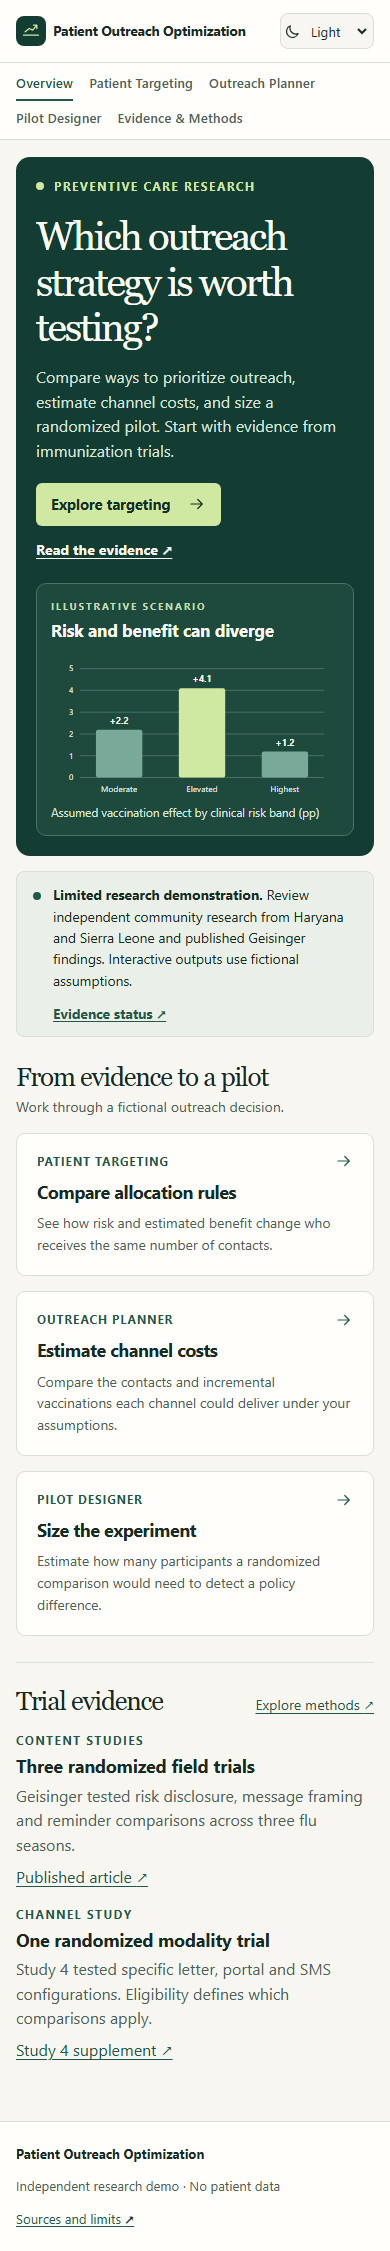
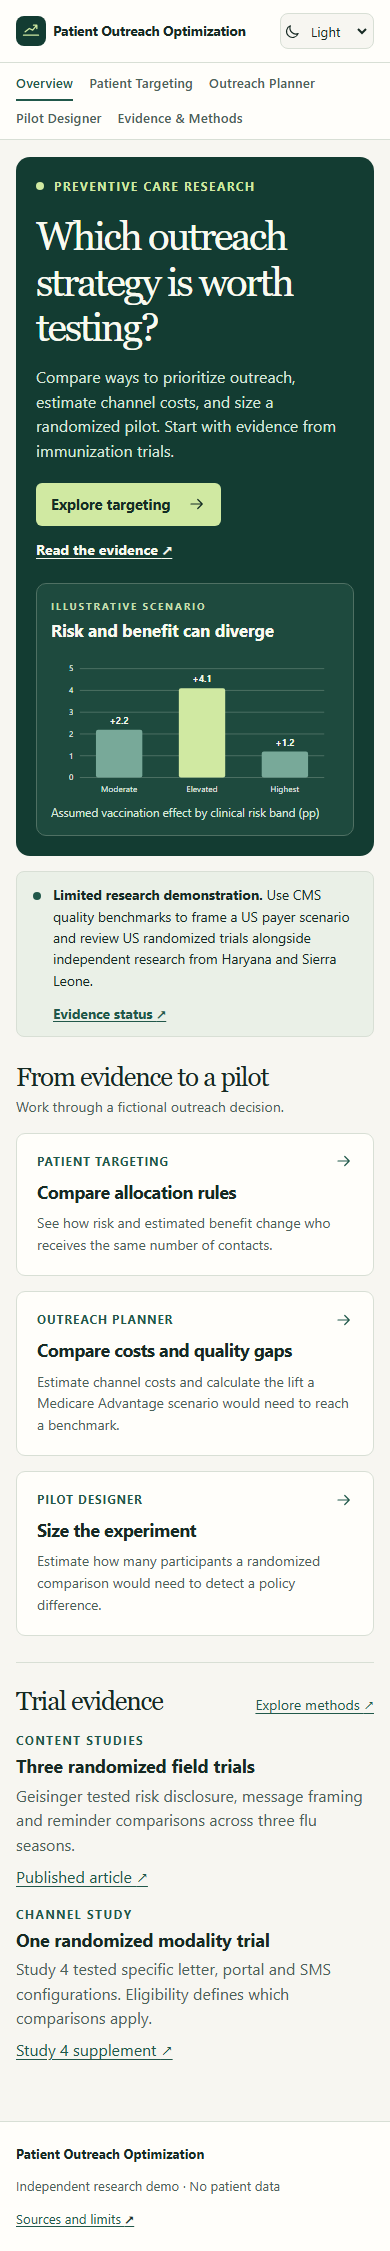
Record verified US demo deployment and final handoff

Changed region(s): [[0.0923, 0.5908, 0.7692, 0.653], [0.1231, 0.3732, 0.8615, 0.4354], [0.8308, 0.6219, 0.8615, 0.653]]

diff --git a/progress.md b/progress.md
@@ -14,7 +14,7 @@
 ## v1.0.0 continuation checkpoint
 
 - Preserved the owner’s [continuation brief](CONTINUATION_V1.md) and recorded the approved design in [docs/UI_DESIGN.md](docs/UI_DESIGN.md). Nine production references match the local build byte for byte. All nine browser tests passed locally and live with exact comparison enabled for Chromium. The five-file local build matched the release ledger and the four served assets and security headers were verified again over HTTPS.
-- Rechecked all 20 Geisinger OSF metadata entries and located the authors’ scripts and message supplement. The reuse basis is still open. See the [unsent permission request](docs/LICENSING.md) with the verified corresponding-author contact.
+- Rechecked all 20 Geisinger OSF metadata entries and located the authors’ scripts and message supplement. See the [permission record](docs/LICENSING.md) for the correspondence status.
 - Verified the openly licensed Haryana immunization package against the deposit checksum and inspected its CSV headers and counts. The prepared analysis file has 28,903 village-month records. The [feasibility review](research/DATASET_FEASIBILITY.md) records the separate cluster-level scope and locks the first independent check against published Figure 4.
 - The independent Haryana check passed both published rounding targets, 1.89 additional measles vaccinations per village-month for information-hub ambassador assignment and a pure-control mean of 7.32. The sample covers 7,370 village-months. Statsmodels agreed with the coefficient and CR0 standard error to `1e-10`. See the [experiment report](docs/EXPERIMENT_REPORT.md#haryana-figure-4-replication) and [run artifact](research/reports/haryana_figure4_replication.json). Design-based uncertainty remains open. The production app serves the limited demo.
 
@@ -23,7 +23,7 @@
 - Protocol commit `f77bfd6` specifies the sensitivity and frozen PHC evaluation. In 902 villages, PHC clustering widened the Figure 4 interval to −0.07 to 3.86 at the same +1.89 estimate. Equal village-month weights gave +0.68. Statsmodels agreed.
 - Fitted preset ridge models on 14 PHCs and evaluated learned and simple rules in 42 villages across 19 separate PHCs. All nominal intervals span zero. The synthetic runs show uneven coverage and illustrative spillover bias. The conditional Fisher diagnostic addresses a distinct null.
 - Verified CC BY 4.0 companion Haryana and CC0 Sierra Leone original files. Sierra Leone provides matched village triplets and a household-randomized component. Its effects have not been estimated here.
-- Geisinger metadata still matches all 20 pins. The node license remains null. The Study 4 notebook confirms the primary subset and six arms. Permission correspondence is drafted and unsent. No participant payloads acquired.
+- Geisinger metadata still matched all 20 pins. The node license remained null. The Study 4 notebook confirmed the primary subset and six arms. The permission request was prepared at this milestone. No participant payloads were acquired.
 - Trial benchmark frozen at `571bc45`. Thirty protocols and 35 checks completed. The raw local model and registry matched 3 of 30 scorable fields each. The verifier matched zero and abstained on all five designated cases. Reviewed source summaries remain the release path.
 - Seventeen Python tests, three Node tests and 12 local plus 12 live browser tests passed. Ruff, mypy, strict TypeScript, GitHub CI, the public projection and the five-file allowlist passed. npm and the scoped OSV queries reported zero advisories. Eleven local captures matched production. [Verification](docs/TEST_EVIDENCE.md)
 - Build commit `dad2575` serves as `v0.2.0-demo` on the existing Pages project. Deployment ID `75a71ff8-c3c6-414b-b01c-12780f6dca7e`. GitHub publication and stable production were verified. The original deployment still serves its original four asset digests. Additional external service cost was $0. [Deployment ledger](docs/DEPLOYMENT.md)
@@ -33,7 +33,7 @@
 - Replication protocol `545f465` was frozen before policy scoring. Independently verified the CC0 original files and reproduced five published coefficient and standard-error pairs. The adult-weighted mobile package effect was +26.07 percentage points. The nested extra structure visit was −1.14 points with a conventional 95% interval of −4.78 to +2.51. The released structure roster needs denominator reconciliation before household targeting. [Study card and run artifacts](docs/SIERRA_LEONE_RESEARCH.md)
 - Fitted ridge T- and DR-learners with whole training triplets and scored 20 distinct triplets at 50% expected village capacity. No policy established improvement. Artifact digests and release-safe aggregates are recorded. Known-answer enumeration and 10,000 draws per scenario checked bounded uncertainty. The Haryana capped-count sensitivity produced wide intervals and spillover remained a source of bias. [Statistical validation](docs/MODEL_VALIDATION.md)
 - Disjoint trial extractor benchmark frozen at `9b9f637`. In the new 30-trial holdout the strongest parser matched 14/30 scorable fields, and the verified local model 3/30. Both abstained on all nine designated cases. The unchanged release gate failed. The app retains reviewed source summaries. [AI evaluation](docs/AI_EVALUATION.md)
-- Geisinger metadata-only verification returned 20 matches. Reuse remains unresolved, the correspondence draft is unsent and no participant payload was acquired.
+- Geisinger metadata-only verification returned 20 matches. Reuse remained unresolved and no participant payload was acquired.
 - The v0.3.0-demo release passed 17 Python tests, three Node tests, Ruff, mypy, the release allowlist, scoped advisory checks and 12 local and 12 production browser tests across three engines. Eleven local and production captures matched. Five workflow captures exactly match the v0.2.0-demo references. Overview and Evidence & Methods changed to present new evidence. [Test evidence](docs/TEST_EVIDENCE.md)
 - GitHub published build commit `c0601bf` and CI passed. Stable Pages serves v0.3.0-demo, deployment `466a90b7-74ae-4aad-ba13-2a7782cb559f`. The two former production versions remain valid rollback targets and their original asset hashes were verified. Additional external service spending was $0. [Deployment ledger](docs/DEPLOYMENT.md)
 
@@ -44,7 +44,9 @@
 - Verified CMS 2027 public contract rates, the UCLA registry outcome and SCORE Table 2. Four measures from 675 coordinated care contracts support the new gap planning workflow. The UCLA comparisons remain compatible with no effect. The SCORE bundle increased screening in the studied population. [US evidence](docs/US_PAYER_EVIDENCE.md)
 - Replayed Sierra Leone replication with statsmodels and reproduced frozen policy results apart from recorded runtime. The roster audit corroborated the remote exclusion and left five nonperipheral village rosters unreconciled with the cap rule. No comparable independent mobile-package trial was located. [Study card](docs/SIERRA_LEONE_RESEARCH.md)
 - Froze the extractor at `99ddcdc` and a disjoint 12-trial, 18-check benchmark at `fecd677`. The final model's verified path returned 2/13 exact fields versus 7/13 for the strongest deterministic method. The original gate failed. [Evaluation](docs/AI_EVALUATION.md)
-- Prepared `v0.4.0-demo` as a limited US integration release, with published aggregates, updated technical handoff, and the unchanged v1.0 scientific rights and transfer gates.
+- Released `v0.4.0-demo` from build commit `a90e404`. The technical handoff includes the [master guide](docs/MASTER_TECHNICAL_GUIDE.md), [architecture](docs/ARCHITECTURE.md), [model card](docs/MODEL_CARD.md), [reproduction steps](docs/REPRODUCIBILITY.md) and [interview guide](docs/INTERVIEW_GUIDE.md).
+- Seventeen Python tests, four Node tests, 15 local and 15 production browser tests, all three projection checks, source and static allowlists, and scoped advisory checks passed. All 13 captured views matched the local build. GitHub CI passed for the production build commit. [Verification ledger](docs/TEST_EVIDENCE.md)
+- Cloudflare Pages production deployment `bda6411e-8121-47b7-a6ff-9d6d3d5937e2` serves the approved static build at the existing URL. The stable site, new immutable URL and three previous deployments passed release-specific HTTPS asset and header checks. Additional external service cost was $0. [Deployment ledger](docs/DEPLOYMENT.md)
 
 ## Resume
 

diff --git a/docs/TEST_EVIDENCE.md b/docs/TEST_EVIDENCE.md
@@ -39,9 +39,10 @@ The Haryana reproduction command passed both locked publication-rounding checks.
 - Three Node tests, strict TypeScript, Vite build and all 12 Playwright tests passed locally and in production. Chromium, Firefox and WebKit exercised four viewports in both themes, interactive workflows, axe WCAG A/AA checks, trial evidence labels and no unexpected requests. All 11 production captures matched the local build. Five workflow captures also matched v0.2.0-demo. The compiled JavaScript is 79.61 kB and CSS is 3.19 kB gzip. [Screenshot references](UI_DESIGN.md)
 - The 128-path staged source scan, five-file build allowlist and disclosure review passed. npm audit and scoped OSV queries for 13 pinned research and PDF dependency versions reported zero advisories. The four HTTPS-served assets matched the ledger and security header checks on the stable and immutable v0.3.0 URLs. Both previous production deployments also matched their release-specific asset hashes and remained eligible rollback targets. [CI run for the deployed commit](https://github.com/AbhinavVarma02/Patient-Outreach-Optimization/actions/runs/45631462871) · [Artifact ledger](../research/reports/public_build_sha256.json) · [Deployment and rollback evidence](DEPLOYMENT.md)
 
-## v0.4.0-demo release candidate · 2026-11-25
+## v0.4.0-demo verification · 2026-11-25
 
-- Seventeen Python tests, Ruff, mypy across 23 source files, compilation, known-answer inference, and all three public projection checks passed. The pinned Sierra Leone replication reproduced the previous report. The frozen village policy replay differed only in runtime metadata. Haryana estimates reproduced within numerical tolerance using a newer numerical stack. Its historical source and protocol pins remain tied to the earlier checkpoint. The full community-inference report reproduced exactly. [Reproducibility](REPRODUCIBILITY.md)
-- Four Node tests, TypeScript and 15 local Playwright tests passed. Chromium, Firefox and WebKit exercised four viewports in both themes, keyboard and focus behavior, the payer workflow, and the configured automated axe WCAG A/AA rules. No test reported page errors or unexpected network requests. The static output size was 82.00 kB JavaScript and 3.22 kB CSS gzip.
+- Seventeen Python tests, Ruff, mypy across 23 source files, compilation, known-answer inference, and all three public projection checks passed. The pinned Sierra Leone replication reproduced the previous report. The frozen village policy replay differed only in runtime metadata. Haryana estimates reproduced within numerical tolerance using a newer numerical stack. Its historical source and protocol pins match `dad2575`. The full community-inference report reproduced exactly. [Reproducibility](REPRODUCIBILITY.md)
+- Four Node tests, TypeScript and 15 local Playwright tests passed. Chromium, Firefox and WebKit exercised four viewports in both themes, keyboard and focus behavior, the payer workflow, and the configured automated axe WCAG A/AA rules. No test reported page errors or unexpected network requests. The static output size was 82.01 kB JavaScript and 3.22 kB CSS gzip.
 - npm audit and OSV checks for 19 pinned Python package versions reported zero advisories. The five-file static build allowlist passed. Production v0.3.0-demo matched its committed HTTPS ledger before promotion. [Build ledger](../research/reports/public_build_sha256.json)
 - The final AI extraction gate failed as recorded on the independent holdout. Statistical and application tests passing does not change that research outcome. [Final extraction results](AI_EVALUATION.md)
+- The 137-path staged source scan passed on the build commit. GitHub CI passed on that same commit. All 15 browser tests passed on the stable Pages URL, and all 13 local and production captures matched. The stable URL and immutable new deployment served matching HTTPS asset bytes and CSP, HSTS and nosniff headers. All three previous production deployments retained their own checked hashes and headers. [CI run](https://github.com/AbhinavVarma02/Patient-Outreach-Optimization/actions/runs/45636045224) · [Deployment ledger](DEPLOYMENT.md)

diff --git a/docs/UI_DESIGN.md b/docs/UI_DESIGN.md
@@ -35,13 +35,13 @@ The Overview copy now points readers to the Haryana evidence. Evidence & Methods
 
 For v0.3.0-demo, Overview updates its evidence-status strip to include Sierra Leone. Evidence & Methods adds the Sierra Leone replication, policy tables and a collapsible extraction evaluation using the same components. The five Targeting, Planner and Pilot screenshots matched the v0.2.0-demo references exactly. The six changed captures cover Overview and Evidence & Methods in desktop light and mobile light and dark. All 11 local and production captures matched byte for byte on 2026-11-25. The v0.2.0-demo screenshots are preserved in checkpoint `88f323c`.
 
-For v0.4.0-demo, Overview introduces the US payer workflow, Outreach Planner adds the gap calculator using the existing workbench, and Evidence & Methods adds the CMS and US trial summaries above the prior research. Targeting and the three Pilot captures match the v0.3.0-demo references byte for byte locally. Seven existing captures changed intentionally. Two new mobile planner captures cover the added inputs and results. Desktop and mobile visual review checked the density, headings and table fit. The v0.3.0-demo references remain available at `41f7d10`.
+For v0.4.0-demo, Overview introduces the US payer workflow, Outreach Planner adds the gap calculator using the existing workbench, and Evidence & Methods adds the CMS and US trial summaries above the prior research. Targeting and the three Pilot captures match the v0.3.0-demo references byte for byte. Seven existing captures changed intentionally. Two new mobile planner captures cover the added inputs and results. Desktop and mobile visual review checked the density, headings and table fit. All 13 new reference captures matched locally and on production. The v0.3.0-demo references remain available at `41f7d10`.
 
 | View | Desktop (1440 × 900), light | Mobile (390 × 844), light | Mobile (390 × 844), dark |
 | --- | --- | --- | --- |
 | Overview | [Reference](images/overview.png) | [Reference](images/overview-mobile-light.png) | [Reference](images/overview-mobile-dark.png) |
 | Patient Targeting | [Reference](images/patient-targeting.png) | — | — |
-| Outreach Planner | [Reference](images/outreach-planner.png) | — | — |
+| Outreach Planner | [Reference](images/outreach-planner.png) | [Reference](images/outreach-planner-mobile-light.png) | [Reference](images/outreach-planner-mobile-dark.png) |
 | Pilot Designer | [Reference](images/pilot-designer.png) | [Reference](images/pilot-designer-mobile-light.png) | [Reference](images/pilot-designer-mobile-dark.png) |
 | Evidence & Methods | [Reference](images/evidence-and-methods.png) | [Reference](images/evidence-and-methods-mobile-light.png) | [Reference](images/evidence-and-methods-mobile-dark.png) |
 

diff --git a/docs/DEPLOYMENT.md b/docs/DEPLOYMENT.md
@@ -13,8 +13,9 @@ Run creation only when the verified account lacks that project. Wrangler 4.168.0
 
 | Release | Build commit | Production deployment ID | Verified deployment |
 | --- | --- | --- | --- |
+| v0.4.0-demo | `a90e404c81e381bfe6a96f8133cd5c382f60fb97` | `bda6411e-8121-47b7-a6ff-9d6d3d5937e2` | [Deployment](https://bda6411e.patient-outreach-optimization.pages.dev/) |
 | v0.3.0-demo | `c0601bf4df295ee42367eacd92aaad0b7908f182` | `466a90b7-74ae-4aad-ba13-2a7782cb559f` | [Deployment](https://466a90b7.patient-outreach-optimization.pages.dev/) |
 | v0.2.0-demo | `dad257536b358a5035f8f51f6da1719b4050fdd5` | `75a71ff8-c3c6-414b-b01c-12780f6dca7e` | [Deployment](https://75a71ff8.patient-outreach-optimization.pages.dev/) |
 | v0.1.0-demo | `d988063bb75e2870ad8e26e2edf316919d81c6d6` | `9112bbb3-551f-4d76-b7a4-df4e99b1b976` | [Preserved deployment](https://9112bbb3.patient-outreach-optimization.pages.dev/) |
 
-The stable production URL serves v0.3.0-demo. The stable and three deployment URLs passed release-specific HTTPS hash and security-header checks after promotion. Wrangler lists both previous deployments as successful production targets. To roll back in Pages, select the prior deployment for the same project, then verify its specific asset ledger and the stable URL. We verified rollback eligibility and assets without switching live traffic. Additional external service cost was $0. [Stable production URL](https://patient-outreach-optimization.pages.dev/) · [Test and audit evidence](TEST_EVIDENCE.md) · [Cloudflare rollback workflow](https://developers.cloudflare.com/pages/configuration/rollbacks/)
+The stable production URL serves v0.4.0-demo. The stable URL and all four immutable deployments passed release-specific HTTPS asset and security-header checks after promotion. Wrangler listed all four as production deployments. To roll back in Pages, select the prior deployment for the same project, then verify its specific asset ledger and the stable URL. The three older deployments were checked without switching traffic. Additional external service cost was $0. [Stable production URL](https://patient-outreach-optimization.pages.dev/) · [Test and audit evidence](TEST_EVIDENCE.md) · [Cloudflare rollback workflow](https://developers.cloudflare.com/pages/configuration/rollbacks/)

diff --git a/docs/US_PAYER_EVIDENCE.md b/docs/US_PAYER_EVIDENCE.md
@@ -22,6 +22,8 @@ C22 uses a 0–100 survey score. C03 is survey-based, so comparing a plan's clai
 
 The UCLA snapshot was retrieved 2026-11-25. ClinicalTrials.gov posted its update on 2024-08-07. The exporter reads the first primary outcome, pools the two text and four portal cells by summing numerators and denominators, rounds the display rates, and passes through two adjusted comparisons. All six raw pooled totals and completion counts match the article. The projection uses the registry's six-month label. Its outcome description lists September 1, 2022 to April 1, 2023, while the article's Primary Outcome section lists August 1, 2022 to April 30, 2023. The aggregate release cannot reconcile the calendar descriptions. The paper compared randomized patients and reports excluding portal-reminder-only self-reports from the primary outcome to limit differential ascertainment. The article's control percentage is printed as 47.1%, while the published count and denominator yield 47.18%. No raw registry file or protocol is published here. SCORE Table 2 was reviewed from the CC BY article. The project transcribes only group counts, reported contrasts and confidence intervals. The article license describes the publication, and its data sharing statement is a separate source for participant data. [UCLA registry results](https://clinicaltrials.gov/study/NCT05525494?tab=results) · [UCLA article, primary outcome and Table 2](https://doi.org/10.1001/jamainternmed.2024.0001) · [Registry reuse terms](https://clinicaltrials.gov/terms-conditions) · [SCORE article, Table 2](https://doi.org/10.1001/jamanetworkopen.2024.46693) · [SCORE registration](https://clinicaltrials.gov/study/NCT04406714)
 
[1 lines of base64/hex data omitted]
+
 ### Other candidate checks
 
 | Candidate | Decision |

diff --git a/CHANGELOG.md b/CHANGELOG.md
@@ -1,12 +1,13 @@
 # Changelog
 
-## 0.4.0-demo · US payer research consolidation
+## 0.4.0-demo · 2026-11-25
 
 - Added a Medicare Advantage benchmark gap calculator and verified CMS 2027 summaries from 675 coordinated care contracts.
 - Integrated UCLA influenza reminder and SCORE screening trial results with study-specific outcomes and estimands.
 - Compared Sierra Leone roster variants, reproduced the remote exclusion reference and documented the unresolved structure lottery.
 - Completed a final 12-trial extraction benchmark. Automated extraction remains experimental after the accuracy and evidence gate failed.
 - Recorded the owner's Geisinger permission request and out-of-office reply. Participant-level reuse remains pending.
+- Published the five-file build on the existing Cloudflare Pages project and verified the production site and three previous deployments.
 
 ## 0.3.0-demo · 2026-11-25
 
